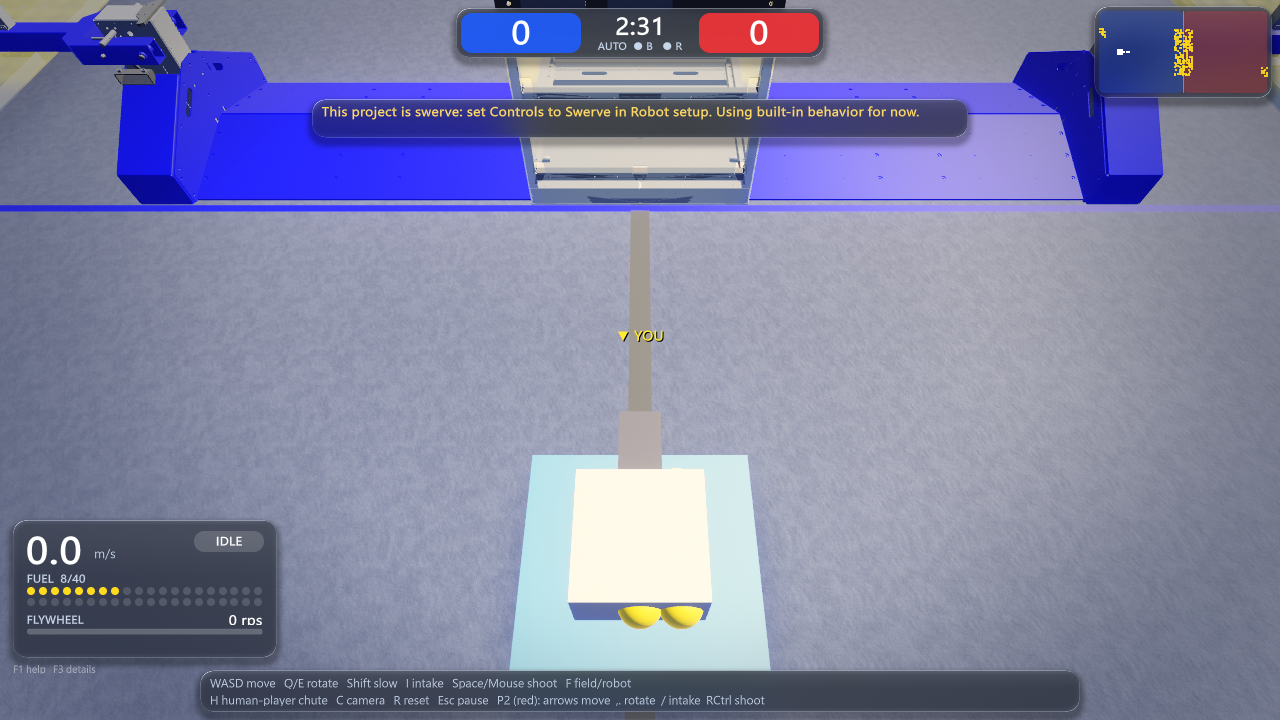
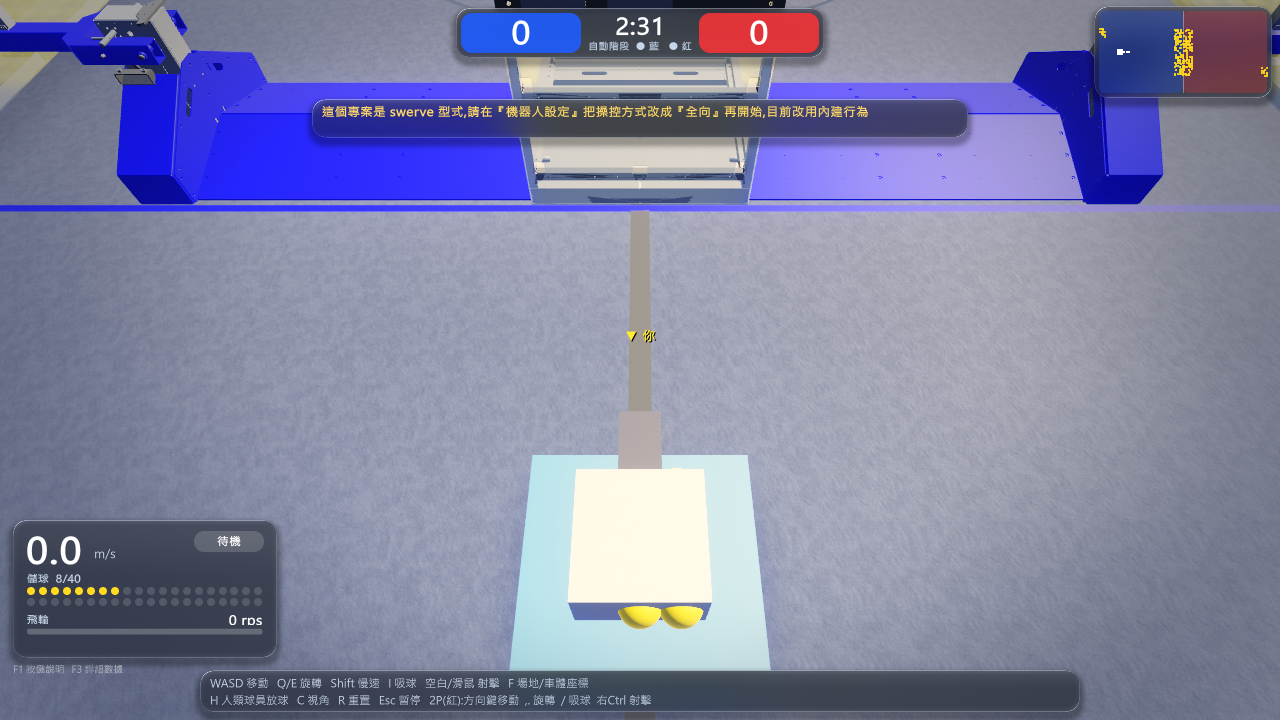
v0.5.57 whatsnew page

diff --git a/Assets/Scripts/UI/MenuSystem.cs b/Assets/Scripts/UI/MenuSystem.cs
@@ -97,6 +97,7 @@ namespace FrcSim
             if (startMenu == "setup") { ShowRobotSetup(); yield break; } if (startMenu == "pad") { ShowPadSetup(ShowRobotSetup, ShowMain); yield break; }
             if (startMenu == "controls") { ShowControls(); yield break; }
             if (startMenu == "about") { ShowAbout(); yield break; }
+            if (startMenu == "whatsnew") { ShowWhatsNew(); yield break; }
             if (startMenu == "pause") { ShowPause(); yield break; }
             if (startMenu == "settings") { settingsBack = ShowMain; ShowSettings(false); yield break; }
             if (startMenu == "modes") { ShowModes(); yield break; }
@@ -230,6 +231,7 @@ namespace FrcSim
                 new Item(() => Loc.T("menu.settings"), () => { settingsBack = ShowMain; ShowSettings(false); }),
                 new Item(() => Loc.T("menu.controls"), ShowControls),
                 new Item(() => Z("關於 / 致謝", "About / Credits"), ShowAbout),
+                new Item(() => (WnUnseen() ? "● " : "") + Z("更新內容", "What's new"), ShowWhatsNew),
                 new Item(() => Loc.T("menu.quit"),     Application.Quit),
             }, null);
             Show(s, false);
@@ -528,6 +530,24 @@ namespace FrcSim
         }
         Action lastControls;
 
+        static string WnPath => System.IO.Path.Combine(System.IO.Path.GetDirectoryName(Application.dataPath), "whatsnew.txt");
+        static bool WnUnseen() { try { return System.IO.File.Exists(WnPath) && Prefs.GetString("wnSeen", "") != UpdateCheck.Current; } catch { return false; } }
+        void ShowWhatsNew()
+        { PreviewRobot.Want = false;
+            try { Prefs.SetString("wnSeen", UpdateCheck.Current); PlayerPrefs.Save(); } catch { }
+            string Body() { try { return System.IO.File.Exists(WnPath) ? System.IO.File.ReadAllText(WnPath, System.Text.Encoding.UTF8) : Z("(沒有更新紀錄)", "(no release notes)"); } catch { return ""; } }
+            var s = Build(() => Z("更新內容", "What's new"), null, new[]
+            {
+                new Item(() => Loc.T("menu.back"), ShowMain),
+            }, ShowMain, content =>
+            {
+                var tx = UiKit.Label("Wn", content, Body(), 17, UiTheme.Text, TextAnchor.UpperLeft);
+                tx.lineSpacing = 1.1f; tx.horizontalOverflow = HorizontalWrapMode.Wrap; tx.verticalOverflow = VerticalWrapMode.Truncate;
+                UiKit.PlaceTL(tx.rectTransform, 90, 320, 640, 590);
+            }, 940f);
+            Show(s, false);
+        }
+
         void ShowAbout()
         { PreviewRobot.Want = false;
             string Body() => Z(
@@ -678,6 +698,7 @@ namespace FrcSim
         }
     }
 }
+
 
 
 

diff --git a/Assets/Scripts/Sim/FloorAccents.cs b/Assets/Scripts/Sim/FloorAccents.cs
@@ -38,10 +38,11 @@ namespace FrcSim
             // 場中央細環
             var ring = new GameObject("CenterRing"); ring.transform.SetParent(root, false);
             var lr = ring.AddComponent<LineRenderer>(); lr.useWorldSpace = true; lr.loop = true; lr.widthMultiplier = 0.035f; lr.sharedMaterial = white; lr.shadowCastingMode = UnityEngine.Rendering.ShadowCastingMode.Off; lr.alignment = LineAlignment.TransformZ;
-            int n = 72; lr.positionCount = n; float rad = 1.4f;
+            int n = 72; lr.positionCount = n; float rad = 2.45f;
             for (int i = 0; i < n; i++) { float a = i / (float)n * Mathf.PI * 2f; lr.SetPosition(i, new Vector3(L / 2f + Mathf.Cos(a) * rad, 0.012f, W / 2f + Mathf.Sin(a) * rad)); }
             ring.transform.rotation = Quaternion.Euler(90f, 0f, 0f);
         }
     }
 }
+
 

diff --git a/Assets/Scripts/Sim/UpdateCheck.cs b/Assets/Scripts/Sim/UpdateCheck.cs
@@ -17,7 +17,7 @@ namespace FrcSim
     //   找不到差異包(或失敗)時退回「開啟下載頁」,讓使用者手動下載完整版。
     public class UpdateCheck : MonoBehaviour
     {
-        public const string Current = "0.5.56";
+        public const string Current = "0.5.57";
         const string Repo = "frc9427liu-tech/FRC9427-SimApp";
         const string ReleasesApi = "https://api.github.com/repos/" + Repo + "/releases?per_page=30";
         public const string Page = "https://github.com/" + Repo + "/releases/latest";
@@ -235,6 +235,7 @@ Start-Process -FilePath $Exe -WorkingDirectory $Dst
 ";
     }
 }
+
 
 
 
